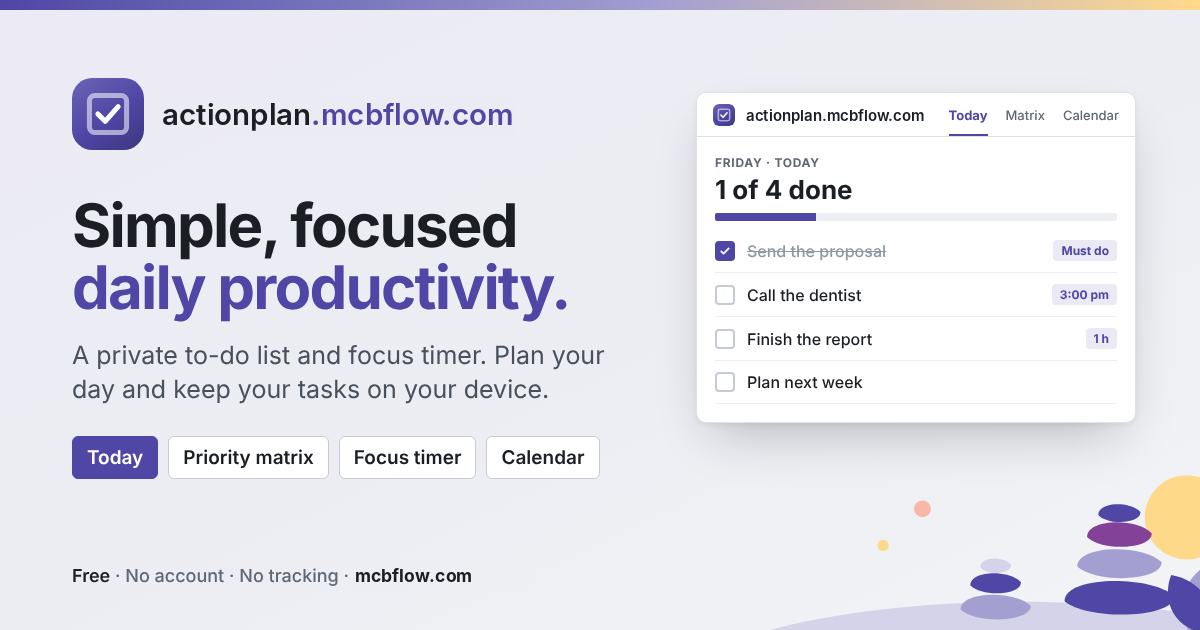
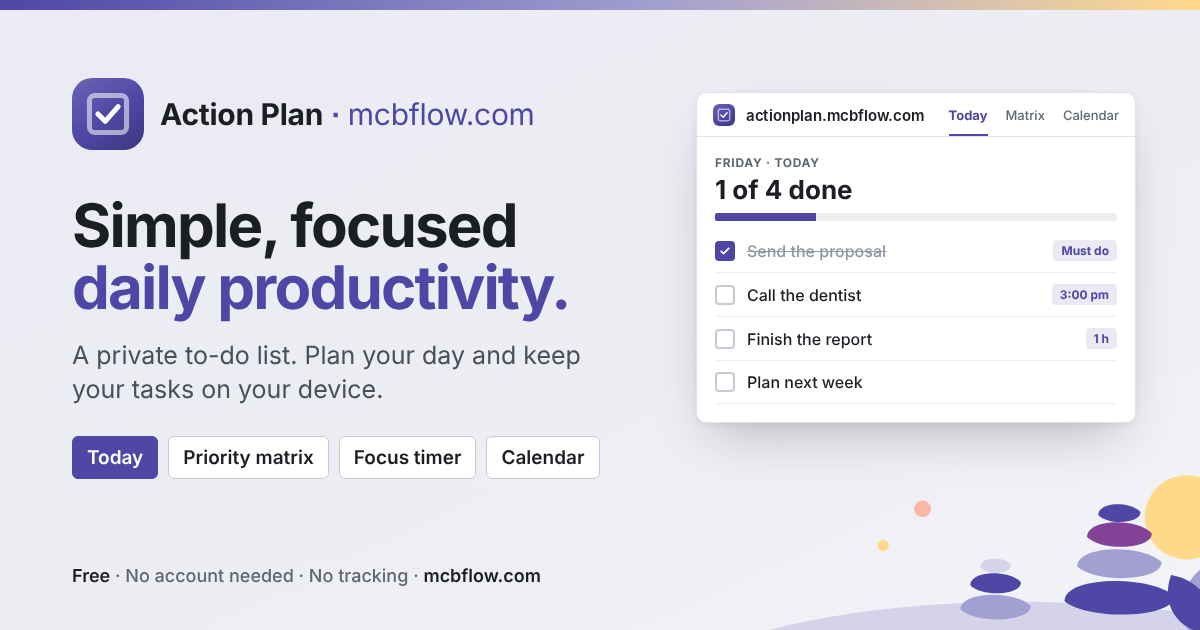
Add files via upload

diff --git a/index.html b/index.html
@@ -6,7 +6,7 @@
     <meta name="referrer" content="no-referrer">
     <meta name="viewport" content="width=device-width, initial-scale=1.0, viewport-fit=cover">
 <meta name="theme-color" content="#4F46A5">
-    <meta name="description" content="Action Plan is a free, private to-do list and focus timer. Plan your day with Today, a priority matrix, projects, a calendar and a Pomodoro timer. No account, and your tasks stay on your device.">
+    <meta name="description" content="Action Plan is a free, private to-do list and focus timer. Plan your day with Today, a priority matrix, projects, a calendar and a Pomodoro timer. No account needed, and your tasks stay on your device.">
     <meta name="application-name" content="Action Plan">
     <meta name="mobile-web-app-capable" content="yes">
     <meta name="apple-mobile-web-app-capable" content="yes">
@@ -20,19 +20,19 @@
     <meta property="og:type" content="website">
     <meta property="og:site_name" content="actionplan.mcbflow.com">
     <meta property="og:title" content="Action Plan | Simple, Focused Daily Productivity">
-    <meta property="og:description" content="Action Plan is a free, private to-do list and focus timer. Plan your day with Today, a priority matrix, projects, a calendar and a Pomodoro timer. No account, and your tasks stay on your device.">
+    <meta property="og:description" content="Action Plan is a free, private to-do list and focus timer. Plan your day with Today, a priority matrix, projects, a calendar and a Pomodoro timer. No account needed, and your tasks stay on your device.">
     <meta property="og:url" content="https://actionplan.mcbflow.com/">
     <meta property="og:image" content="https://actionplan.mcbflow.com/og-image.png?v=3">
     <meta property="og:image:type" content="image/png">
     <meta property="og:image:width" content="1200">
     <meta property="og:image:height" content="630">
-    <meta property="og:image:alt" content="actionplan.mcbflow.com: simple, focused daily productivity. A private to-do list and focus timer, shown with a Today list.">
-    <meta name="twitter:image:alt" content="actionplan.mcbflow.com: simple, focused daily productivity. A private to-do list and focus timer, shown with a Today list.">
+    <meta property="og:image:alt" content="Action Plan: Simple, focused daily productivity. A private to-do list and focus timer, shown with a Today list.">
+    <meta name="twitter:image:alt" content="Action Plan: Simple, focused daily productivity. A private to-do list and focus timer, shown with a Today list.">
     <meta name="twitter:card" content="summary_large_image">
     <meta name="twitter:title" content="Action Plan | Simple, Focused Daily Productivity">
-    <meta name="twitter:description" content="Action Plan is a free, private to-do list and focus timer. Plan your day with Today, a priority matrix, projects, a calendar and a Pomodoro timer. No account, and your tasks stay on your device.">
+    <meta name="twitter:description" content="Action Plan is a free, private to-do list and focus timer. Plan your day with Today, a priority matrix, projects, a calendar and a Pomodoro timer. No account needed, and your tasks stay on your device.">
     <meta name="twitter:image" content="https://actionplan.mcbflow.com/og-image.png?v=3">
-    <script type="application/ld+json">{"@context":"https://schema.org","@type":"WebApplication","name":"Action Plan","alternateName":"actionplan.mcbflow.com","url":"https://actionplan.mcbflow.com/","description":"A free, private to-do list and focus timer. Plan your day with Today, a priority matrix, projects, a calendar and a Pomodoro timer. No account, and your tasks stay on your device.","applicationCategory":"ProductivityApplication","operatingSystem":"Any (runs in a web browser)","browserRequirements":"Requires JavaScript","isAccessibleForFree":true,"offers":{"@type":"Offer","price":"0","priceCurrency":"USD"},"image":"https://actionplan.mcbflow.com/og-image.png","inLanguage":"en"}</script>
+    <script type="application/ld+json">{"@context":"https://schema.org","@type":"WebApplication","name":"Action Plan","alternateName":"actionplan.mcbflow.com","url":"https://actionplan.mcbflow.com/","description":"A free, private to-do list and focus timer. Plan your day with Today, a priority matrix, projects, a calendar and a Pomodoro timer. No account needed, and your tasks stay on your device.","applicationCategory":"ProductivityApplication","operatingSystem":"Any (runs in a web browser)","browserRequirements":"Requires JavaScript","isAccessibleForFree":true,"offers":{"@type":"Offer","price":"0","priceCurrency":"USD"},"image":"https://actionplan.mcbflow.com/og-image.png","inLanguage":"en"}</script>
     <!-- Always load light unless dark was chosen last time (runs before first paint). -->
     <script>
         (function () {

diff --git a/404.html b/404.html
@@ -26,8 +26,8 @@ a:focus-visible{outline:2px solid var(--accent);outline-offset:2px;border-radius
 header{width:min(720px,100% - 32px);margin:0 auto;padding:20px 0 0}
 .brand{display:inline-flex;align-items:center;gap:10px;color:var(--ink);text-decoration:none;font-weight:650;font-size:16px}
 .brand svg{width:34px;height:34px;flex:none;border-radius:8px}
-.brand i{font-style:normal;color:var(--accent)}
-.brand .tld{font-weight:500}.brand .sep{margin:0 .32em 0 .34em;color:var(--muted,#6b7280);font-weight:400}
+.brand i{font-style:normal;color:var(--accent);font-weight:400}
+.brand .tld{font-weight:400}.brand .sep{margin:0 .32em 0 .34em;color:var(--accent);font-weight:700}
 main{flex:1;width:min(720px,100% - 32px);margin:18px auto 24px}
 .card{position:relative;overflow:hidden;background:var(--surface);border:1px solid var(--border);border-radius:8px;
  box-shadow:0 1px 2px rgba(20,24,31,.06),0 12px 32px -18px rgba(20,24,31,.28);padding:28px 28px 0}
